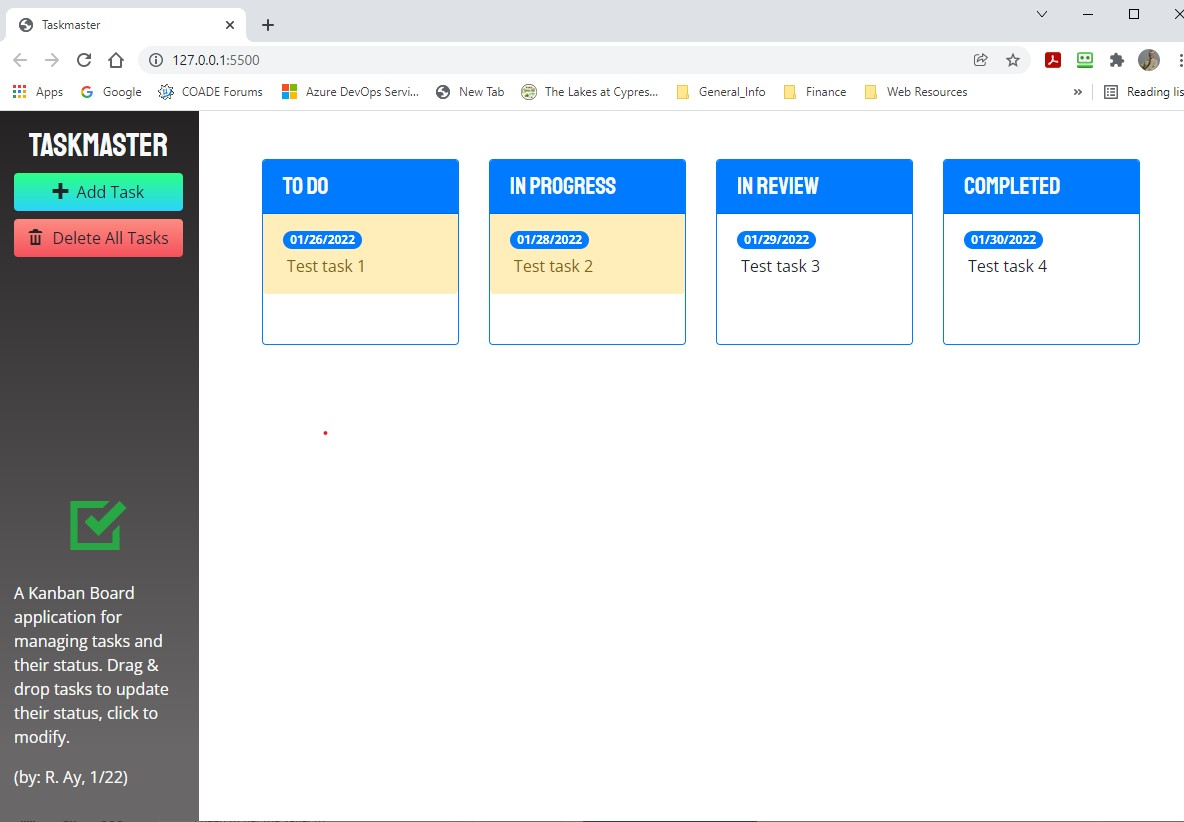
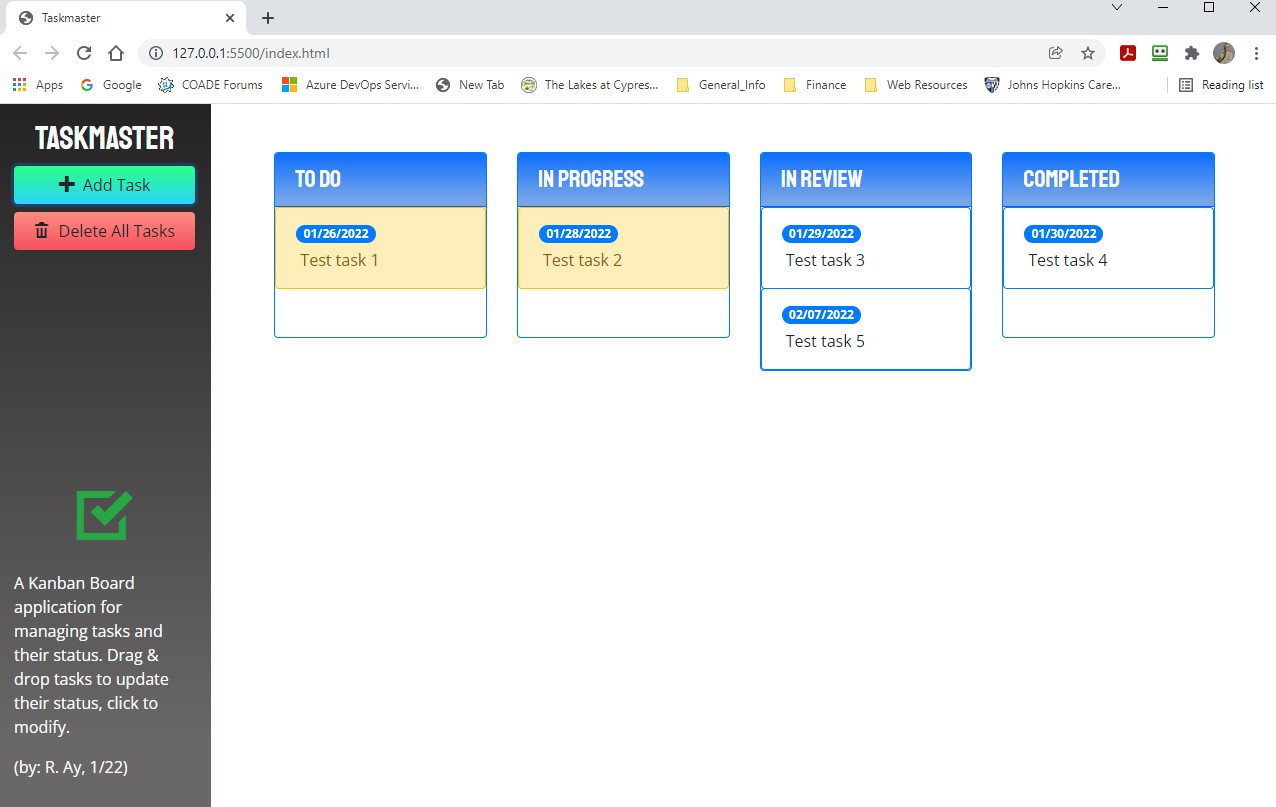
Added gradients to 'status columns', updated application screen shots.

Changed region(s): [[0.0, 0.0, 1.0, 1.0], [0.0625, 0.6196, 0.125, 0.6506]]

diff --git a/index.html b/index.html
@@ -46,7 +46,7 @@
           <!-- for 768px wide, the col-md-6 controls the lists take 6 columns each, two items per row -->
           <!-- for 1200px wide, the col-md-3 controls and the lists take 3 columns each, 4 items per row -->
           <div class="card border-primary" style="max-width: 18rem;">
-            <h4 class="card-header bg-primary text-light" ">To Do</h4>
+            <h4 class="card-header graded-status text-light" ">To Do</h4>
             <ul id="list-toDo" class="list-group list-group-flush"> 
               <!-- <li class="list-group-item">
                 <span class="badge badge-primary badge-pill">05/28/2020</span>
@@ -60,7 +60,7 @@
         <!-- The "In Progress" column -->
         <div class="col-12 col-md-6 col-xl-3 mb-3">
           <div class="card border-primary" style="max-width: 18rem;">
-            <h4 class="card-header bg-primary text-light">In Progress</h4>
+            <h4 class="card-header graded-status text-light">In Progress</h4>
             <ul id="list-inProgress" class="list-group list-group-flush">
               <!-- <li class="list-group-item">
                 <span class="badge badge-primary badge-pill">05/28/2020</span>
@@ -74,7 +74,7 @@
         <!-- Start the "In Review" column -->
         <div class="col-12 col-md-6 col-xl-3 mb-3">
           <div class="card border-primary" style="max-width: 18rem;">
-            <h4 class="card-header bg-primary text-light" >In Review</h4>
+            <h4 class="card-header graded-status text-light" >In Review</h4>
             <ul id="list-inReview" class="list-group list-group-flush">
               <!-- <li class="list-group-item">
                 <span class="badge badge-primary badge-pill">05/28/2020</span>
@@ -88,7 +88,7 @@
         <!-- Start of the "Done" column -->
         <div class="col-12 col-md-6 col-xl-3 mb-3">
           <div class="card border-primary" style="max-width: 18rem;">
-            <h4 class="card-header bg-primary text-light">Completed</h4>
+            <h4 class="card-header graded-status text-light">Completed</h4>
             <ul id="list-done" class="list-group list-group-flush">
               <!-- <li class="list-group-item">
                 <span class="badge badge-primary badge-pill">05/28/2020</span>

diff --git a/assets/js/script.js b/assets/js/script.js
@@ -273,14 +273,14 @@ var auditTask = function(taskEl) {
   var time = moment(date, "L").set("hour", 17);
 
   // Remove any old classes from the element
-  $(taskEl).removeClass("list-group-item-warning list-group-item-danger");
+  $(taskEl).removeClass("list-group-item-warning list-group-item-danger border-danger border-warning");
 
   // Apply new class if the task is near/over the due date
   if( moment().isAfter(time)) {
-    $(taskEl).addClass("list-group-item-danger list-group-item border border-danger rounded rounded rounded-3");
+    $(taskEl).addClass("list-group-item-danger list-group-item border border-danger rounded rounded-3");
   }
   else if (Math.abs(moment().diff(time, "days")) <= 2) {
-    $(taskEl).addClass("list-group-item-warning list-group-item border border-warning rounded rounded rounded-3");
+    $(taskEl).addClass("list-group-item-warning list-group-item border border-warning rounded rounded-3");
   }
 } 
 

diff --git a/assets/css/style.css b/assets/css/style.css
@@ -65,10 +65,15 @@ ul.list-group {
   background-position: 1px -50px;
 }
 
-/* Style to apply color gradient to the header area. */
+/* Style to apply color gradient to the header area and status columns. */
 .graded-header {
   background-color: #000000;
   background-image: linear-gradient(180deg, #242323 0%, #696767 90% );
+}
+
+.graded-status {
+  background-color: #0d6efd;
+  background-image: linear-gradient(180deg, #0d6efd 0%, #78a5e9 90% );
 }
 
 

diff --git a/README.md b/README.md
@@ -47,5 +47,6 @@ The deployment link on GitHub is: https://CaptainRich.github.io/taskmaster-pro
 
 ## Application Screen Shots
 
-![Screenshot](./assets/images/taskmaster.jpg) Image of the application.
+![Screenshot](./assets/images/taskmaster.jpg) Image of the application on large width display.  
+
 ![Screenshot2](./assets/images/taskmaster2.jpg) Image of the application on medium width display.
